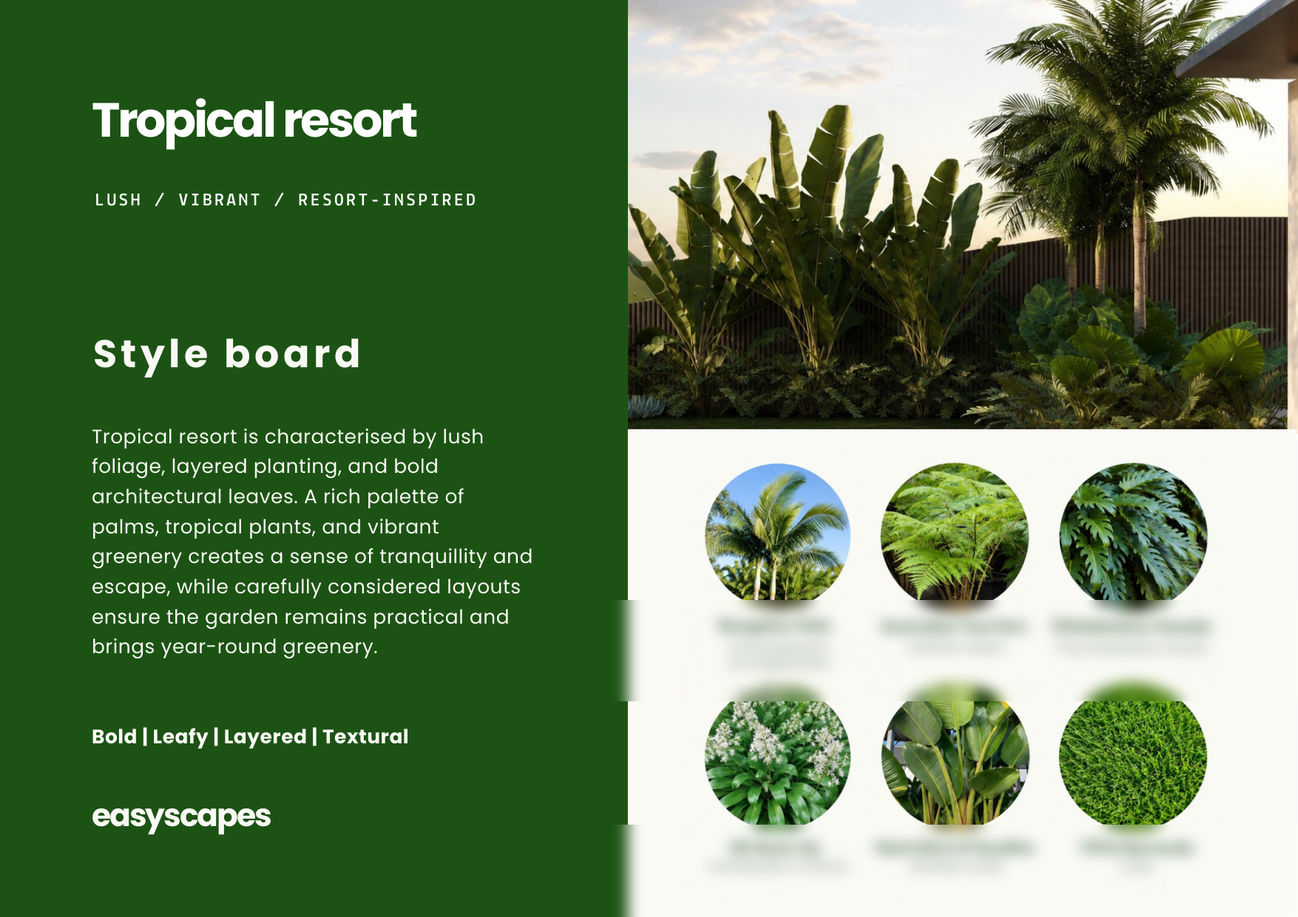
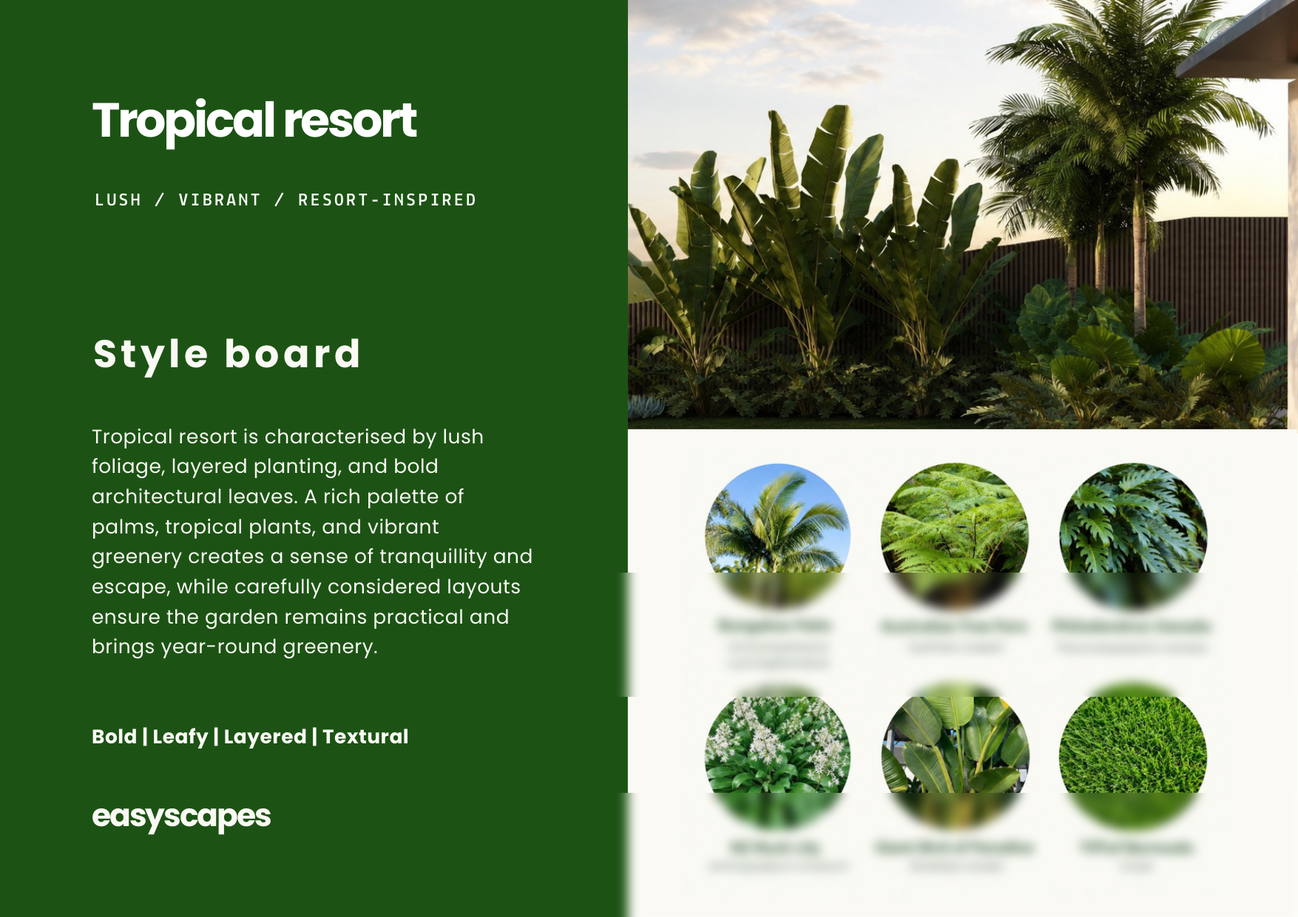
Add files via upload

diff --git a/index.html b/index.html
@@ -548,12 +548,14 @@ footer{background:var(--dark);padding:52px 56px 28px;}
           <span style="font-family:'Poppins','Helvetica Neue',sans-serif;font-size:19px;font-weight:800;letter-spacing:-0.5px;color:#1a1a1a;">easyscapes</span>
           <span id="modal-pill" style="font-size:9px;font-weight:700;letter-spacing:0.1em;text-transform:uppercase;padding:5px 12px;border-radius:20px;color:#fff;background:#1a1a1a;"></span>
         </div>
+        <img id="modal-mockup" src="" alt="Your easyscapes package" onerror="this.style.display='none'" style="width:100%;height:auto;border-radius:8px;display:block;">
         <div>
           <div style="font-size:20px;font-weight:800;color:#1a1a1a;letter-spacing:-0.4px;">A look inside your design</div>
           <div style="font-size:13px;color:#8a8a86;margin-top:3px;">Three pieces, tailored to your home.</div>
         </div>
         <div style="background:#fff;border:1px solid #ececec;border-radius:8px;overflow:hidden;">
           <div class="modal-img" id="modal-img" style="height:186px;position:relative;background:#e0dcd4;margin:0;border-radius:0;">
+            <div style="position:absolute;left:0;right:0;bottom:0;height:20%;backdrop-filter:blur(7px);-webkit-backdrop-filter:blur(7px);z-index:1;"></div>
             <div style="position:absolute;inset:0;background:linear-gradient(to bottom,transparent 55%,rgba(0,0,0,0.35));z-index:2;"></div>
             <p id="modal-vis-label" style="position:absolute;left:16px;bottom:14px;z-index:3;font-size:10px;font-weight:700;letter-spacing:0.08em;text-transform:uppercase;margin:0;color:#fff;">01&nbsp;&nbsp;Personalised visualisation</p>
           </div>
@@ -568,7 +570,7 @@ footer{background:var(--dark);padding:52px 56px 28px;}
             <div style="width:32px;height:2px;background:rgba(255,255,255,0.6);margin:12px 0 10px;"></div>
             <div style="font-size:13px;font-weight:600;opacity:0.95;">Look &amp; feel</div>
           </div>
-          <div style="position:relative;background:#e8e6e0;overflow:hidden;"><img id="modal-styleboard" src="" alt="Style board" onerror="this.style.display='none'" style="width:100%;height:100%;object-fit:cover;position:absolute;inset:0;filter:blur(4px);transform:scale(1.06);"></div>
+          <div style="position:relative;background:#e8e6e0;overflow:hidden;"><img id="modal-styleboard" src="" alt="Style board" onerror="this.style.display='none'" style="width:100%;height:100%;object-fit:cover;position:absolute;inset:0;filter:blur(0px);transform:scale(1.02);"></div>
         </div>
         <div style="background:#fff;border:1px solid #ececec;border-radius:8px;overflow:hidden;display:grid;grid-template-columns:1fr 1.2fr;min-height:128px;">
           <div style="position:relative;background:#f2f1ee;overflow:hidden;"><img id="modal-plantplan" src="" alt="Planting plan" onerror="this.style.display='none'" style="width:100%;height:100%;object-fit:cover;object-position:center;position:absolute;inset:0;"></div>
@@ -659,12 +661,12 @@ document.addEventListener('DOMContentLoaded', function() {
   }
 
   var tdata = {
-    "contemporary-coastal":{img:"https://raw.githubusercontent.com/FIKYLandscapeDesign/Easyscapes/main/contemporary-coastal-hero.png",styleboard:"https://raw.githubusercontent.com/FIKYLandscapeDesign/Easyscapes/main/styleboard-contemporary-coastal.png",plantplan:"https://raw.githubusercontent.com/FIKYLandscapeDesign/Easyscapes/main/plant-plan-contemporary-coastal.png",name:"Contemporary Coastal",color:"#616d48",climate:"Thrives in coastal and temperate areas and takes sea breezes in its stride. We tailor the plant choices to your local conditions.",keywords:"Relaxed / Refined / Natural",price:"$159",stripe:"https://buy.stripe.com/7sY5kF5Sl2PL3q5cb06kg00",desc:"Blends relaxed seaside character with clean, modern design. Soft planting palettes, natural textures and layered greenery.",features:["Personalised visualisation","Style board","Plant plan"],bg:"#8fa89a"},
-    "tropical":{img:"https://raw.githubusercontent.com/FIKYLandscapeDesign/Easyscapes/main/tropical-hero.png",styleboard:"https://raw.githubusercontent.com/FIKYLandscapeDesign/Easyscapes/main/styleboard-tropical.png",plantplan:"https://raw.githubusercontent.com/FIKYLandscapeDesign/Easyscapes/main/plant-plan-tropical.png",name:"Tropical Resort",color:"#1c5314",climate:"Looks its best in warm, humid climates where lush foliage flourishes. We tailor the plant choices to your local conditions.",keywords:"Lush / Vibrant / Resort-Inspired",price:"$159",stripe:"https://buy.stripe.com/7sY5kFbcF4XTe4J0si6kg01",desc:"A lush, resort-inspired retreat with layered foliage, bold textures and vibrant greenery.",features:["Personalised visualisation","Style board","Plant plan"],bg:"#6b8f6b"},
-    "modern-australian":{img:"https://raw.githubusercontent.com/FIKYLandscapeDesign/Easyscapes/main/modern-australian-hero.png",styleboard:"https://raw.githubusercontent.com/FIKYLandscapeDesign/Easyscapes/main/styleboard-modern-australian.png",plantplan:"https://raw.githubusercontent.com/FIKYLandscapeDesign/Easyscapes/main/plant-plan-modern-australian.png",name:"Modern Australian",color:"#22561a",climate:"One of our most adaptable styles, comfortable in most climates and relaxed about heat and dry spells.",keywords:"Textural / Contemporary / Resilient",price:"$159",stripe:"https://buy.stripe.com/7sY6oJ1C5fCxf8Ncb06kg05",desc:"Native and complementary plantings, clean lines and natural materials. Functional, low-maintenance and distinctly Australian.",features:["Personalised visualisation","Style board","Plant plan"],bg:"#a89878"},
-    "palm-springs":{img:"https://raw.githubusercontent.com/FIKYLandscapeDesign/Easyscapes/main/palm-springs-hero.png",styleboard:"https://raw.githubusercontent.com/FIKYLandscapeDesign/Easyscapes/main/styleboard-palm-springs.png",plantplan:"https://raw.githubusercontent.com/FIKYLandscapeDesign/Easyscapes/main/plant-plan-palm-springs.png",name:"Palm Springs",color:"#ff9999",climate:"Made for warm, dry conditions, with drought-tolerant succulents and sculptural planting that love the sun. We tailor the plant choices to your local conditions.",keywords:"Sculptural / Desert-Inspired / Bold",price:"$159",stripe:"https://buy.stripe.com/5kQ28t3Kddup1hX1wm6kg03",desc:"Desert luxury with sculptural plants, clean lines and a curated palette of textures.",features:["Personalised visualisation","Style board","Plant plan"],bg:"#c4a882"},
-    "mediterranean":{img:"https://raw.githubusercontent.com/FIKYLandscapeDesign/Easyscapes/main/mediterranean-hero.png",styleboard:"https://raw.githubusercontent.com/FIKYLandscapeDesign/Easyscapes/main/styleboard-mediterranean.png",plantplan:"https://raw.githubusercontent.com/FIKYLandscapeDesign/Easyscapes/main/plant-plan-mediterranean.png",name:"Mediterranean Charm",color:"#e1cdc8",climate:"A natural fit for warm, dry summers and mild winters, with drought-tolerant planting that handles heat with ease.",keywords:"Relaxed / Timeless / Organic",price:"$159",stripe:"https://buy.stripe.com/14A00l80t9e9gcR8YO6kg02",desc:"Timeless elegance with relaxed outdoor living. Drought-tolerant species, natural stone and warm earthy tones.",features:["Personalised visualisation","Style board","Plant plan"],bg:"#b0a882"},
-    "native-australian":{img:"https://raw.githubusercontent.com/FIKYLandscapeDesign/Easyscapes/main/native-australian-hero.png",styleboard:"https://raw.githubusercontent.com/FIKYLandscapeDesign/Easyscapes/main/styleboard-native-australian.png",plantplan:"https://raw.githubusercontent.com/FIKYLandscapeDesign/Easyscapes/main/plant-plan-native-australian.png",name:"Native Australian",color:"#b6433e",climate:"Suited to gardens right across the country, because we choose natives that belong to your region. It's our most water-wise, low-maintenance style and thrives in heat and drought.",keywords:"Native / Earthy / Sustainable",price:"$159",stripe:"https://buy.stripe.com/5kQ9AVeoR1LH7Gl4Iy6kg04",desc:"Celebrates the beauty of Australian flora with textured foliage, seasonal colour and drought-tolerant plantings.",features:["Personalised visualisation","Style board","Plant plan"],bg:"#8fa878"}
+    "contemporary-coastal":{img:"https://raw.githubusercontent.com/FIKYLandscapeDesign/Easyscapes/main/contemporary-coastal-hero.png",styleboard:"https://raw.githubusercontent.com/FIKYLandscapeDesign/Easyscapes/main/styleboard-contemporary-coastal.png?v=2",plantplan:"https://raw.githubusercontent.com/FIKYLandscapeDesign/Easyscapes/main/plant-plan-contemporary-coastal.png?v=2",name:"Contemporary Coastal",color:"#616d48",climate:"Thrives in coastal and temperate areas and takes sea breezes in its stride.",keywords:"Relaxed / Refined / Natural",price:"$159",stripe:"https://buy.stripe.com/7sY5kF5Sl2PL3q5cb06kg00",desc:"Blends relaxed seaside character with clean, modern design. Soft planting palettes, natural textures and layered greenery.",features:["Personalised visualisation","Style board","Plant plan"],bg:"#8fa89a"},
+    "tropical":{img:"https://raw.githubusercontent.com/FIKYLandscapeDesign/Easyscapes/main/tropical-hero.png",styleboard:"https://raw.githubusercontent.com/FIKYLandscapeDesign/Easyscapes/main/styleboard-tropical.png?v=2",plantplan:"https://raw.githubusercontent.com/FIKYLandscapeDesign/Easyscapes/main/plant-plan-tropical.png?v=2",name:"Tropical Resort",color:"#1c5314",climate:"Looks its best in warm, humid climates where lush foliage flourishes.",keywords:"Lush / Vibrant / Resort-Inspired",price:"$159",stripe:"https://buy.stripe.com/7sY5kFbcF4XTe4J0si6kg01",desc:"A lush, resort-inspired retreat with layered foliage, bold textures and vibrant greenery.",features:["Personalised visualisation","Style board","Plant plan"],bg:"#6b8f6b"},
+    "modern-australian":{img:"https://raw.githubusercontent.com/FIKYLandscapeDesign/Easyscapes/main/modern-australian-hero.png",styleboard:"https://raw.githubusercontent.com/FIKYLandscapeDesign/Easyscapes/main/styleboard-modern-australian.png?v=2",plantplan:"https://raw.githubusercontent.com/FIKYLandscapeDesign/Easyscapes/main/plant-plan-modern-australian.png?v=2",name:"Modern Australian",color:"#22561a",climate:"One of our most adaptable styles, comfortable in most climates and relaxed about heat and dry spells.",keywords:"Textural / Contemporary / Resilient",price:"$159",stripe:"https://buy.stripe.com/7sY6oJ1C5fCxf8Ncb06kg05",desc:"Native and complementary plantings, clean lines and natural materials. Functional, low-maintenance and distinctly Australian.",features:["Personalised visualisation","Style board","Plant plan"],bg:"#a89878"},
+    "palm-springs":{img:"https://raw.githubusercontent.com/FIKYLandscapeDesign/Easyscapes/main/palm-springs-hero.png",styleboard:"https://raw.githubusercontent.com/FIKYLandscapeDesign/Easyscapes/main/styleboard-palm-springs.png?v=2",plantplan:"https://raw.githubusercontent.com/FIKYLandscapeDesign/Easyscapes/main/plant-plan-palm-springs.png?v=2",name:"Palm Springs",color:"#ff9999",climate:"Made for warm, dry conditions, with drought-tolerant succulents and sculptural planting that love the sun.",keywords:"Sculptural / Desert-Inspired / Bold",price:"$159",stripe:"https://buy.stripe.com/5kQ28t3Kddup1hX1wm6kg03",desc:"Desert luxury with sculptural plants, clean lines and a curated palette of textures.",features:["Personalised visualisation","Style board","Plant plan"],bg:"#c4a882"},
+    "mediterranean":{img:"https://raw.githubusercontent.com/FIKYLandscapeDesign/Easyscapes/main/mediterranean-hero.png",styleboard:"https://raw.githubusercontent.com/FIKYLandscapeDesign/Easyscapes/main/styleboard-mediterranean.png?v=2",plantplan:"https://raw.githubusercontent.com/FIKYLandscapeDesign/Easyscapes/main/plant-plan-mediterranean.png?v=2",name:"Mediterranean Charm",color:"#e1cdc8",climate:"A natural fit for warm, dry summers and mild winters, with drought-tolerant planting that handles heat with ease.",keywords:"Relaxed / Timeless / Organic",price:"$159",stripe:"https://buy.stripe.com/14A00l80t9e9gcR8YO6kg02",desc:"Timeless elegance with relaxed outdoor living. Drought-tolerant species, natural stone and warm earthy tones.",features:["Personalised visualisation","Style board","Plant plan"],bg:"#b0a882"},
+    "native-australian":{img:"https://raw.githubusercontent.com/FIKYLandscapeDesign/Easyscapes/main/native-australian-hero.png",styleboard:"https://raw.githubusercontent.com/FIKYLandscapeDesign/Easyscapes/main/styleboard-native-australian.png?v=2",plantplan:"https://raw.githubusercontent.com/FIKYLandscapeDesign/Easyscapes/main/plant-plan-native-australian.png?v=2",name:"Native Australian",color:"#b6433e",climate:"Suited to gardens right across the country, because we choose natives that belong to your region. It's our most water-wise, low-maintenance style and thrives in heat and drought.",keywords:"Native / Earthy / Sustainable",price:"$159",stripe:"https://buy.stripe.com/5kQ9AVeoR1LH7Gl4Iy6kg04",desc:"Celebrates the beauty of Australian flora with textured foliage, seasonal colour and drought-tolerant plantings.",features:["Personalised visualisation","Style board","Plant plan"],bg:"#8fa878"}
   };
 
     (function(){try{document.querySelectorAll('[onclick^="openModal"]').forEach(function(el){var m=el.getAttribute('onclick').match(/openModal\('([^']+)'\)/);if(!m)return;var d=tdata[m[1]];if(!d||!d.color)return;var kw=el.querySelector('.keywords,.tcard-keywords');if(kw)kw.style.color=d.color;});}catch(e){}})();
@@ -673,6 +675,7 @@ document.addEventListener('DOMContentLoaded', function() {
     esTrack('style_click', {style_name: d.name});
     document.getElementById('modal-keywords').textContent = d.keywords;
     document.getElementById('modal-keywords').style.color = d.color || '#8a8a86';
+    var _mk=document.getElementById('modal-mockup'); if(_mk){ _mk.src='https://raw.githubusercontent.com/FIKYLandscapeDesign/Easyscapes/main/mockup-'+id+'.png?v=2'; }
     var _mp=document.getElementById('modal-pill'); if(_mp){_mp.textContent=d.name; _mp.style.background=d.color||'#1a1a1a';}
     var _sb=document.getElementById('modal-sb-panel'); if(_sb) _sb.style.background=d.color||'#1a1a1a';
     var _pl=document.getElementById('modal-pp-label'); if(_pl) _pl.style.color=d.color||'#1a1a1a';

diff --git a/styles.html b/styles.html
@@ -511,12 +511,14 @@ footer{background:var(--dark);padding:52px 56px 28px;}
           <span style="font-family:'Poppins','Helvetica Neue',sans-serif;font-size:19px;font-weight:800;letter-spacing:-0.5px;color:#1a1a1a;">easyscapes</span>
           <span id="modal-pill" style="font-size:9px;font-weight:700;letter-spacing:0.1em;text-transform:uppercase;padding:5px 12px;border-radius:20px;color:#fff;background:#1a1a1a;"></span>
         </div>
+        <img id="modal-mockup" src="" alt="Your easyscapes package" onerror="this.style.display='none'" style="width:100%;height:auto;border-radius:8px;display:block;">
         <div>
           <div style="font-size:20px;font-weight:800;color:#1a1a1a;letter-spacing:-0.4px;">A look inside your design</div>
           <div style="font-size:13px;color:#8a8a86;margin-top:3px;">Three pieces, tailored to your home.</div>
         </div>
         <div style="background:#fff;border:1px solid #ececec;border-radius:8px;overflow:hidden;">
           <div class="modal-img" id="modal-img" style="height:186px;position:relative;background:#e0dcd4;margin:0;border-radius:0;">
+            <div style="position:absolute;left:0;right:0;bottom:0;height:20%;backdrop-filter:blur(7px);-webkit-backdrop-filter:blur(7px);z-index:1;"></div>
             <div style="position:absolute;inset:0;background:linear-gradient(to bottom,transparent 55%,rgba(0,0,0,0.35));z-index:2;"></div>
             <p id="modal-vis-label" style="position:absolute;left:16px;bottom:14px;z-index:3;font-size:10px;font-weight:700;letter-spacing:0.08em;text-transform:uppercase;margin:0;color:#fff;">01&nbsp;&nbsp;Personalised visualisation</p>
           </div>
@@ -531,7 +533,7 @@ footer{background:var(--dark);padding:52px 56px 28px;}
             <div style="width:32px;height:2px;background:rgba(255,255,255,0.6);margin:12px 0 10px;"></div>
             <div style="font-size:13px;font-weight:600;opacity:0.95;">Look &amp; feel</div>
           </div>
-          <div style="position:relative;background:#e8e6e0;overflow:hidden;"><img id="modal-styleboard" src="" alt="Style board" onerror="this.style.display='none'" style="width:100%;height:100%;object-fit:cover;position:absolute;inset:0;filter:blur(4px);transform:scale(1.06);"></div>
+          <div style="position:relative;background:#e8e6e0;overflow:hidden;"><img id="modal-styleboard" src="" alt="Style board" onerror="this.style.display='none'" style="width:100%;height:100%;object-fit:cover;position:absolute;inset:0;filter:blur(0px);transform:scale(1.02);"></div>
         </div>
         <div style="background:#fff;border:1px solid #ececec;border-radius:8px;overflow:hidden;display:grid;grid-template-columns:1fr 1.2fr;min-height:128px;">
           <div style="position:relative;background:#f2f1ee;overflow:hidden;"><img id="modal-plantplan" src="" alt="Planting plan" onerror="this.style.display='none'" style="width:100%;height:100%;object-fit:cover;object-position:center;position:absolute;inset:0;"></div>
@@ -622,12 +624,12 @@ document.addEventListener('DOMContentLoaded', function() {
   }
 
   var tdata = {
-    "contemporary-coastal":{img:"https://raw.githubusercontent.com/FIKYLandscapeDesign/Easyscapes/main/contemporary-coastal-hero.png",styleboard:"https://raw.githubusercontent.com/FIKYLandscapeDesign/Easyscapes/main/styleboard-contemporary-coastal.png",plantplan:"https://raw.githubusercontent.com/FIKYLandscapeDesign/Easyscapes/main/plant-plan-contemporary-coastal.png",name:"Contemporary Coastal",color:"#616d48",climate:"Thrives in coastal and temperate areas and takes sea breezes in its stride. We tailor the plant choices to your local conditions.",keywords:"Relaxed / Refined / Natural",price:"$159",stripe:"https://buy.stripe.com/7sY5kF5Sl2PL3q5cb06kg00",desc:"Blends relaxed seaside character with clean, modern design. Soft planting palettes, natural textures and layered greenery.",features:["Personalised visualisation","Style board","Plant plan"],bg:"#8fa89a"},
-    "tropical":{img:"https://raw.githubusercontent.com/FIKYLandscapeDesign/Easyscapes/main/tropical-hero.png",styleboard:"https://raw.githubusercontent.com/FIKYLandscapeDesign/Easyscapes/main/styleboard-tropical.png",plantplan:"https://raw.githubusercontent.com/FIKYLandscapeDesign/Easyscapes/main/plant-plan-tropical.png",name:"Tropical Resort",color:"#1c5314",climate:"Looks its best in warm, humid climates where lush foliage flourishes. We tailor the plant choices to your local conditions.",keywords:"Lush / Vibrant / Resort-Inspired",price:"$159",stripe:"https://buy.stripe.com/7sY5kFbcF4XTe4J0si6kg01",desc:"A lush, resort-inspired retreat with layered foliage, bold textures and vibrant greenery.",features:["Personalised visualisation","Style board","Plant plan"],bg:"#6b8f6b"},
-    "modern-australian":{img:"https://raw.githubusercontent.com/FIKYLandscapeDesign/Easyscapes/main/modern-australian-hero.png",styleboard:"https://raw.githubusercontent.com/FIKYLandscapeDesign/Easyscapes/main/styleboard-modern-australian.png",plantplan:"https://raw.githubusercontent.com/FIKYLandscapeDesign/Easyscapes/main/plant-plan-modern-australian.png",name:"Modern Australian",color:"#22561a",climate:"One of our most adaptable styles, comfortable in most climates and relaxed about heat and dry spells.",keywords:"Textural / Contemporary / Resilient",price:"$159",stripe:"https://buy.stripe.com/7sY6oJ1C5fCxf8Ncb06kg05",desc:"Native and complementary plantings, clean lines and natural materials. Functional, low-maintenance and distinctly Australian.",features:["Personalised visualisation","Style board","Plant plan"],bg:"#a89878"},
-    "palm-springs":{img:"https://raw.githubusercontent.com/FIKYLandscapeDesign/Easyscapes/main/palm-springs-hero.png",styleboard:"https://raw.githubusercontent.com/FIKYLandscapeDesign/Easyscapes/main/styleboard-palm-springs.png",plantplan:"https://raw.githubusercontent.com/FIKYLandscapeDesign/Easyscapes/main/plant-plan-palm-springs.png",name:"Palm Springs",color:"#ff9999",climate:"Made for warm, dry conditions, with drought-tolerant succulents and sculptural planting that love the sun. We tailor the plant choices to your local conditions.",keywords:"Sculptural / Desert-Inspired / Bold",price:"$159",stripe:"https://buy.stripe.com/5kQ28t3Kddup1hX1wm6kg03",desc:"Desert luxury with sculptural plants, clean lines and a curated palette of textures.",features:["Personalised visualisation","Style board","Plant plan"],bg:"#c4a882"},
-    "mediterranean":{img:"https://raw.githubusercontent.com/FIKYLandscapeDesign/Easyscapes/main/mediterranean-hero.png",styleboard:"https://raw.githubusercontent.com/FIKYLandscapeDesign/Easyscapes/main/styleboard-mediterranean.png",plantplan:"https://raw.githubusercontent.com/FIKYLandscapeDesign/Easyscapes/main/plant-plan-mediterranean.png",name:"Mediterranean Charm",color:"#e1cdc8",climate:"A natural fit for warm, dry summers and mild winters, with drought-tolerant planting that handles heat with ease.",keywords:"Relaxed / Timeless / Organic",price:"$159",stripe:"https://buy.stripe.com/14A00l80t9e9gcR8YO6kg02",desc:"Timeless elegance with relaxed outdoor living. Drought-tolerant species, natural stone and warm earthy tones.",features:["Personalised visualisation","Style board","Plant plan"],bg:"#b0a882"},
-    "native-australian":{img:"https://raw.githubusercontent.com/FIKYLandscapeDesign/Easyscapes/main/native-australian-hero.png",styleboard:"https://raw.githubusercontent.com/FIKYLandscapeDesign/Easyscapes/main/styleboard-native-australian.png",plantplan:"https://raw.githubusercontent.com/FIKYLandscapeDesign/Easyscapes/main/plant-plan-native-australian.png",name:"Native Australian",color:"#b6433e",climate:"Suited to gardens right across the country, because we choose natives that belong to your region. It's our most water-wise, low-maintenance style and thrives in heat and drought.",keywords:"Native / Earthy / Sustainable",price:"$159",stripe:"https://buy.stripe.com/5kQ9AVeoR1LH7Gl4Iy6kg04",desc:"Celebrates the beauty of Australian flora with textured foliage, seasonal colour and drought-tolerant plantings.",features:["Personalised visualisation","Style board","Plant plan"],bg:"#8fa878"}
+    "contemporary-coastal":{img:"https://raw.githubusercontent.com/FIKYLandscapeDesign/Easyscapes/main/contemporary-coastal-hero.png",styleboard:"https://raw.githubusercontent.com/FIKYLandscapeDesign/Easyscapes/main/styleboard-contemporary-coastal.png?v=2",plantplan:"https://raw.githubusercontent.com/FIKYLandscapeDesign/Easyscapes/main/plant-plan-contemporary-coastal.png?v=2",name:"Contemporary Coastal",color:"#616d48",climate:"Thrives in coastal and temperate areas and takes sea breezes in its stride.",keywords:"Relaxed / Refined / Natural",price:"$159",stripe:"https://buy.stripe.com/7sY5kF5Sl2PL3q5cb06kg00",desc:"Blends relaxed seaside character with clean, modern design. Soft planting palettes, natural textures and layered greenery.",features:["Personalised visualisation","Style board","Plant plan"],bg:"#8fa89a"},
+    "tropical":{img:"https://raw.githubusercontent.com/FIKYLandscapeDesign/Easyscapes/main/tropical-hero.png",styleboard:"https://raw.githubusercontent.com/FIKYLandscapeDesign/Easyscapes/main/styleboard-tropical.png?v=2",plantplan:"https://raw.githubusercontent.com/FIKYLandscapeDesign/Easyscapes/main/plant-plan-tropical.png?v=2",name:"Tropical Resort",color:"#1c5314",climate:"Looks its best in warm, humid climates where lush foliage flourishes.",keywords:"Lush / Vibrant / Resort-Inspired",price:"$159",stripe:"https://buy.stripe.com/7sY5kFbcF4XTe4J0si6kg01",desc:"A lush, resort-inspired retreat with layered foliage, bold textures and vibrant greenery.",features:["Personalised visualisation","Style board","Plant plan"],bg:"#6b8f6b"},
+    "modern-australian":{img:"https://raw.githubusercontent.com/FIKYLandscapeDesign/Easyscapes/main/modern-australian-hero.png",styleboard:"https://raw.githubusercontent.com/FIKYLandscapeDesign/Easyscapes/main/styleboard-modern-australian.png?v=2",plantplan:"https://raw.githubusercontent.com/FIKYLandscapeDesign/Easyscapes/main/plant-plan-modern-australian.png?v=2",name:"Modern Australian",color:"#22561a",climate:"One of our most adaptable styles, comfortable in most climates and relaxed about heat and dry spells.",keywords:"Textural / Contemporary / Resilient",price:"$159",stripe:"https://buy.stripe.com/7sY6oJ1C5fCxf8Ncb06kg05",desc:"Native and complementary plantings, clean lines and natural materials. Functional, low-maintenance and distinctly Australian.",features:["Personalised visualisation","Style board","Plant plan"],bg:"#a89878"},
+    "palm-springs":{img:"https://raw.githubusercontent.com/FIKYLandscapeDesign/Easyscapes/main/palm-springs-hero.png",styleboard:"https://raw.githubusercontent.com/FIKYLandscapeDesign/Easyscapes/main/styleboard-palm-springs.png?v=2",plantplan:"https://raw.githubusercontent.com/FIKYLandscapeDesign/Easyscapes/main/plant-plan-palm-springs.png?v=2",name:"Palm Springs",color:"#ff9999",climate:"Made for warm, dry conditions, with drought-tolerant succulents and sculptural planting that love the sun.",keywords:"Sculptural / Desert-Inspired / Bold",price:"$159",stripe:"https://buy.stripe.com/5kQ28t3Kddup1hX1wm6kg03",desc:"Desert luxury with sculptural plants, clean lines and a curated palette of textures.",features:["Personalised visualisation","Style board","Plant plan"],bg:"#c4a882"},
+    "mediterranean":{img:"https://raw.githubusercontent.com/FIKYLandscapeDesign/Easyscapes/main/mediterranean-hero.png",styleboard:"https://raw.githubusercontent.com/FIKYLandscapeDesign/Easyscapes/main/styleboard-mediterranean.png?v=2",plantplan:"https://raw.githubusercontent.com/FIKYLandscapeDesign/Easyscapes/main/plant-plan-mediterranean.png?v=2",name:"Mediterranean Charm",color:"#e1cdc8",climate:"A natural fit for warm, dry summers and mild winters, with drought-tolerant planting that handles heat with ease.",keywords:"Relaxed / Timeless / Organic",price:"$159",stripe:"https://buy.stripe.com/14A00l80t9e9gcR8YO6kg02",desc:"Timeless elegance with relaxed outdoor living. Drought-tolerant species, natural stone and warm earthy tones.",features:["Personalised visualisation","Style board","Plant plan"],bg:"#b0a882"},
+    "native-australian":{img:"https://raw.githubusercontent.com/FIKYLandscapeDesign/Easyscapes/main/native-australian-hero.png",styleboard:"https://raw.githubusercontent.com/FIKYLandscapeDesign/Easyscapes/main/styleboard-native-australian.png?v=2",plantplan:"https://raw.githubusercontent.com/FIKYLandscapeDesign/Easyscapes/main/plant-plan-native-australian.png?v=2",name:"Native Australian",color:"#b6433e",climate:"Suited to gardens right across the country, because we choose natives that belong to your region. It's our most water-wise, low-maintenance style and thrives in heat and drought.",keywords:"Native / Earthy / Sustainable",price:"$159",stripe:"https://buy.stripe.com/5kQ9AVeoR1LH7Gl4Iy6kg04",desc:"Celebrates the beauty of Australian flora with textured foliage, seasonal colour and drought-tolerant plantings.",features:["Personalised visualisation","Style board","Plant plan"],bg:"#8fa878"}
   };
 
     (function(){try{document.querySelectorAll('[onclick^="openModal"]').forEach(function(el){var m=el.getAttribute('onclick').match(/openModal\('([^']+)'\)/);if(!m)return;var d=tdata[m[1]];if(!d||!d.color)return;var kw=el.querySelector('.keywords,.tcard-keywords');if(kw)kw.style.color=d.color;});}catch(e){}})();
@@ -636,6 +638,7 @@ document.addEventListener('DOMContentLoaded', function() {
     esTrack('style_click', {style_name: d.name});
     document.getElementById('modal-keywords').textContent = d.keywords;
     document.getElementById('modal-keywords').style.color = d.color || '#8a8a86';
+    var _mk=document.getElementById('modal-mockup'); if(_mk){ _mk.src='https://raw.githubusercontent.com/FIKYLandscapeDesign/Easyscapes/main/mockup-'+id+'.png?v=2'; }
     var _mp=document.getElementById('modal-pill'); if(_mp){_mp.textContent=d.name; _mp.style.background=d.color||'#1a1a1a';}
     var _sb=document.getElementById('modal-sb-panel'); if(_sb) _sb.style.background=d.color||'#1a1a1a';
     var _pl=document.getElementById('modal-pp-label'); if(_pl) _pl.style.color=d.color||'#1a1a1a';

diff --git a/how.html b/how.html
@@ -338,14 +338,14 @@ footer{background:var(--dark);padding:52px 56px 28px;}
       <div>
         <p style="font-size:11px;font-weight:700;letter-spacing:0.14em;text-transform:uppercase;color:var(--light);margin-bottom:12px;">Plant plan</p>
         <div style="border-radius:4px;overflow:hidden;border:1px solid var(--border);">
-          <img src="https://raw.githubusercontent.com/FIKYLandscapeDesign/Easyscapes/main/plant-plan-tropical.png" alt="Plant plan example" style="width:100%;height:auto;display:block;">
+          <img src="https://raw.githubusercontent.com/FIKYLandscapeDesign/Easyscapes/main/plant-plan-tropical.png?v=2" alt="Plant plan example" style="width:100%;height:auto;display:block;">
         </div>
         <p style="font-size:13px;color:var(--light);margin-top:10px;line-height:1.6;">A top-down layout showing which plants go where, quantities and spacing. Hand it directly to your landscaper or use it for DIY.</p>
       </div>
       <div>
         <p style="font-size:11px;font-weight:700;letter-spacing:0.14em;text-transform:uppercase;color:var(--light);margin-bottom:12px;">Style board</p>
         <div style="position:relative;border-radius:4px;overflow:hidden;border:1px solid var(--border);">
-          <img src="https://raw.githubusercontent.com/FIKYLandscapeDesign/Easyscapes/main/styleboard-tropical.png" alt="Style board preview" style="width:100%;height:auto;display:block;">
+          <img src="https://raw.githubusercontent.com/FIKYLandscapeDesign/Easyscapes/main/styleboard-tropical.png?v=2" alt="Style board preview" style="width:100%;height:auto;display:block;">
         </div>
         </div>
         <p style="font-size:13px;color:var(--light);margin-top:10px;line-height:1.6;">A curated inspiration board showing the style, materials, colours and mood of your chosen design.</p>
